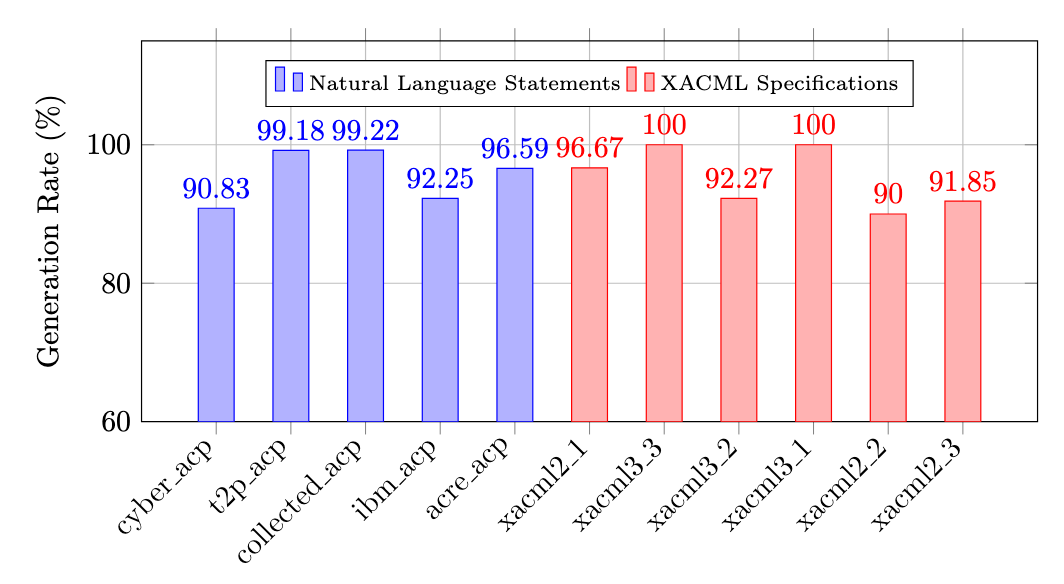
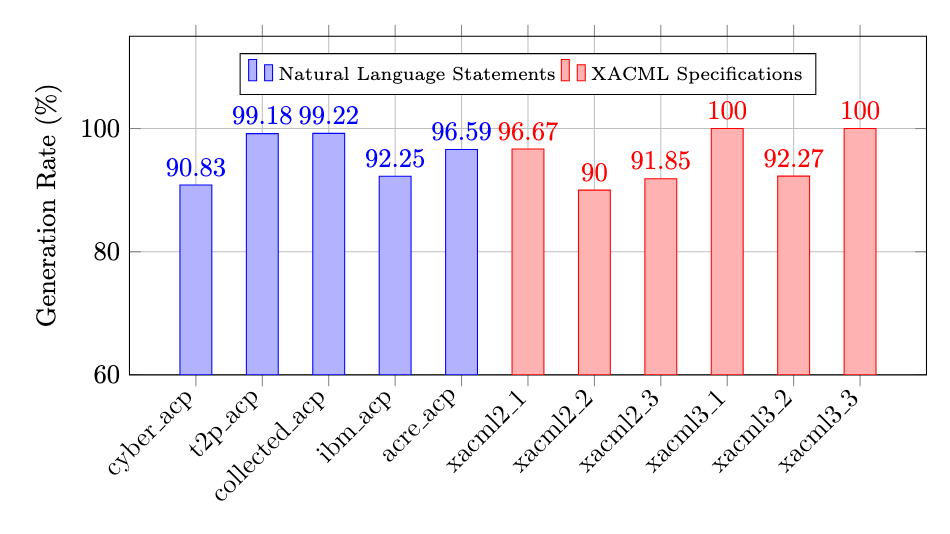
Implement Datalog class and related policy classes; update figure

Changed region(s): [[0.0305, 0.0599, 0.9768, 0.9588], [0.9463, 0.4494, 0.9768, 0.5094]]

diff --git a/evaluation/figure.tex b/evaluation/figure.tex
@@ -10,11 +10,11 @@
 % File: ibm_acp.jsonl.xlsx - Successfully Generated Policies: 119/129 (92.25%)
 % File: acre_acp.jsonl.xlsx - Successfully Generated Policies: 482/499 (96.59%)
 % File: xacml2_1.xml.xlsx - Successfully Generated Policies: 29/30 (96.67%)
-% File: xacml3_3.xml.xlsx - Successfully Generated Policies: 12/12 (100.00%)
-% File: xacml3_2.xml.xlsx - Successfully Generated Policies: 167/181 (92.27%)
-% File: xacml3_1.xml.xlsx - Successfully Generated Policies: 2/2 (100.00%)
 % File: xacml2_2.xml.xlsx - Successfully Generated Policies: 27/30 (90.00%)
 % File: xacml2_3.xml.xlsx - Successfully Generated Policies: 1466/1596 (91.85%)
+% File: xacml3_1.xml.xlsx - Successfully Generated Policies: 2/2 (100.00%)
+% File: xacml3_2.xml.xlsx - Successfully Generated Policies: 167/181 (92.27%)
+% File: xacml3_3.xml.xlsx - Successfully Generated Policies: 12/12 (100.00%)
 
 \begin{tikzpicture}
 \begin{axis}[
@@ -25,8 +25,8 @@
     ymin=60,
     ymax=115,
     ylabel={Generation Rate (\%)},
-    symbolic x coords={cyber\_acp, t2p\_acp, collected\_acp, ibm\_acp, acre\_acp, xacml2\_1, xacml3\_3, xacml3\_2, xacml3\_1, xacml2\_2, xacml2\_3},
-    xtick={cyber\_acp, t2p\_acp, collected\_acp, ibm\_acp, acre\_acp, xacml2\_1, xacml3\_3, xacml3\_2, xacml3\_1, xacml2\_2, xacml2\_3},
+    symbolic x coords={cyber\_acp, t2p\_acp, collected\_acp, ibm\_acp, acre\_acp, xacml2\_1, xacml2\_2, xacml2\_3, xacml3\_1, xacml3\_2, xacml3\_3},
+    xtick={cyber\_acp, t2p\_acp, collected\_acp, ibm\_acp, acre\_acp, xacml2\_1, xacml2\_2, xacml2\_3, xacml3\_1, xacml3\_2, xacml3\_3},
     x tick label style={rotate=45, anchor=east},        
     nodes near coords,
     enlarge x limits=0.1,
@@ -42,11 +42,11 @@
 };
 \addplot+[bar shift=0pt] coordinates {
     (xacml2\_1, 96.67)
-    (xacml3\_3, 100.00)
-    (xacml3\_2, 92.27)
-    (xacml3\_1, 100.00)
     (xacml2\_2, 90.00)
     (xacml2\_3, 91.85)
+    (xacml3\_1, 100.00)
+    (xacml3\_2, 92.27)
+    (xacml3\_3, 100.00)
 };
 \legend{Natural Language Statements, XACML Specifications}
 \end{axis}

diff --git a/policy_trans/datalog.py b/policy_trans/datalog.py
@@ -1,0 +1,46 @@
+import json
+from .policy import Policy
+from .carminati import Carminati
+from .cheng import Cheng
+from .crampton import Crampton
+from .fong import Fong
+
+
+class Datalog(Policy):
+    def __init__(self, datalog_str: str):
+        self._subjects = json.loads(datalog_str).get("subjects", "")
+        self._objects = json.loads(datalog_str).get("objects", "")
+        self._relationships = json.loads(datalog_str).get("relationships", "")
+        self._actions = json.loads(datalog_str).get("actions", "")
+
+    def specifications(self) -> dict[str, str]:
+        return {
+            "subjects": self._subjects,
+            "objects": self._objects,
+            "relationships": self._relationships,
+            "actions": self._actions,
+        }
+
+    def translate2carminati(self) -> Carminati | None:
+        pass
+
+    def translate2fong(self) -> Fong | None:
+        pass
+
+    def translate2cheng(self) -> Cheng | None:
+        pass
+
+    def translate2crampton(self) -> Crampton | None:
+        pass
+
+    def get_subjects(self) -> str:
+        return self._subjects
+
+    def get_objects(self) -> str:
+        return self._objects
+
+    def get_relationships(self) -> str:
+        return self._relationships
+
+    def get_actions(self) -> str:
+        return self._actions

diff --git a/policy_trans/policy.py b/policy_trans/policy.py
@@ -1,0 +1,11 @@
+from abc import ABC, abstractmethod
+from typing import Any
+
+
+class Policy(ABC):
+    def __init__(self):
+        pass
+
+    @abstractmethod
+    def specifications(self) -> Any:
+        pass

diff --git a/policy_trans/carminati.py b/policy_trans/carminati.py
@@ -1,0 +1,6 @@
+from .policy import Policy
+
+
+class Carminati(Policy):
+    def __init__(self):
+        pass

diff --git a/policy_trans/crampton.py b/policy_trans/crampton.py
@@ -1,0 +1,6 @@
+from .policy import Policy
+
+
+class Crampton(Policy):
+    def __init__(self):
+        pass

diff --git a/policy_trans/cheng.py b/policy_trans/cheng.py
@@ -1,0 +1,6 @@
+from .policy import Policy
+
+
+class Cheng(Policy):
+    def __init__(self):
+        pass

diff --git a/policy_trans/fong.py b/policy_trans/fong.py
@@ -1,0 +1,6 @@
+from .policy import Policy
+
+
+class Fong(Policy):
+    def __init__(self):
+        pass

diff --git a/policy_trans/__init__.py b/policy_trans/__init__.py
@@ -1,0 +1,3 @@
+from .datalog import Datalog
+
+__all__ = ["Datalog"]
